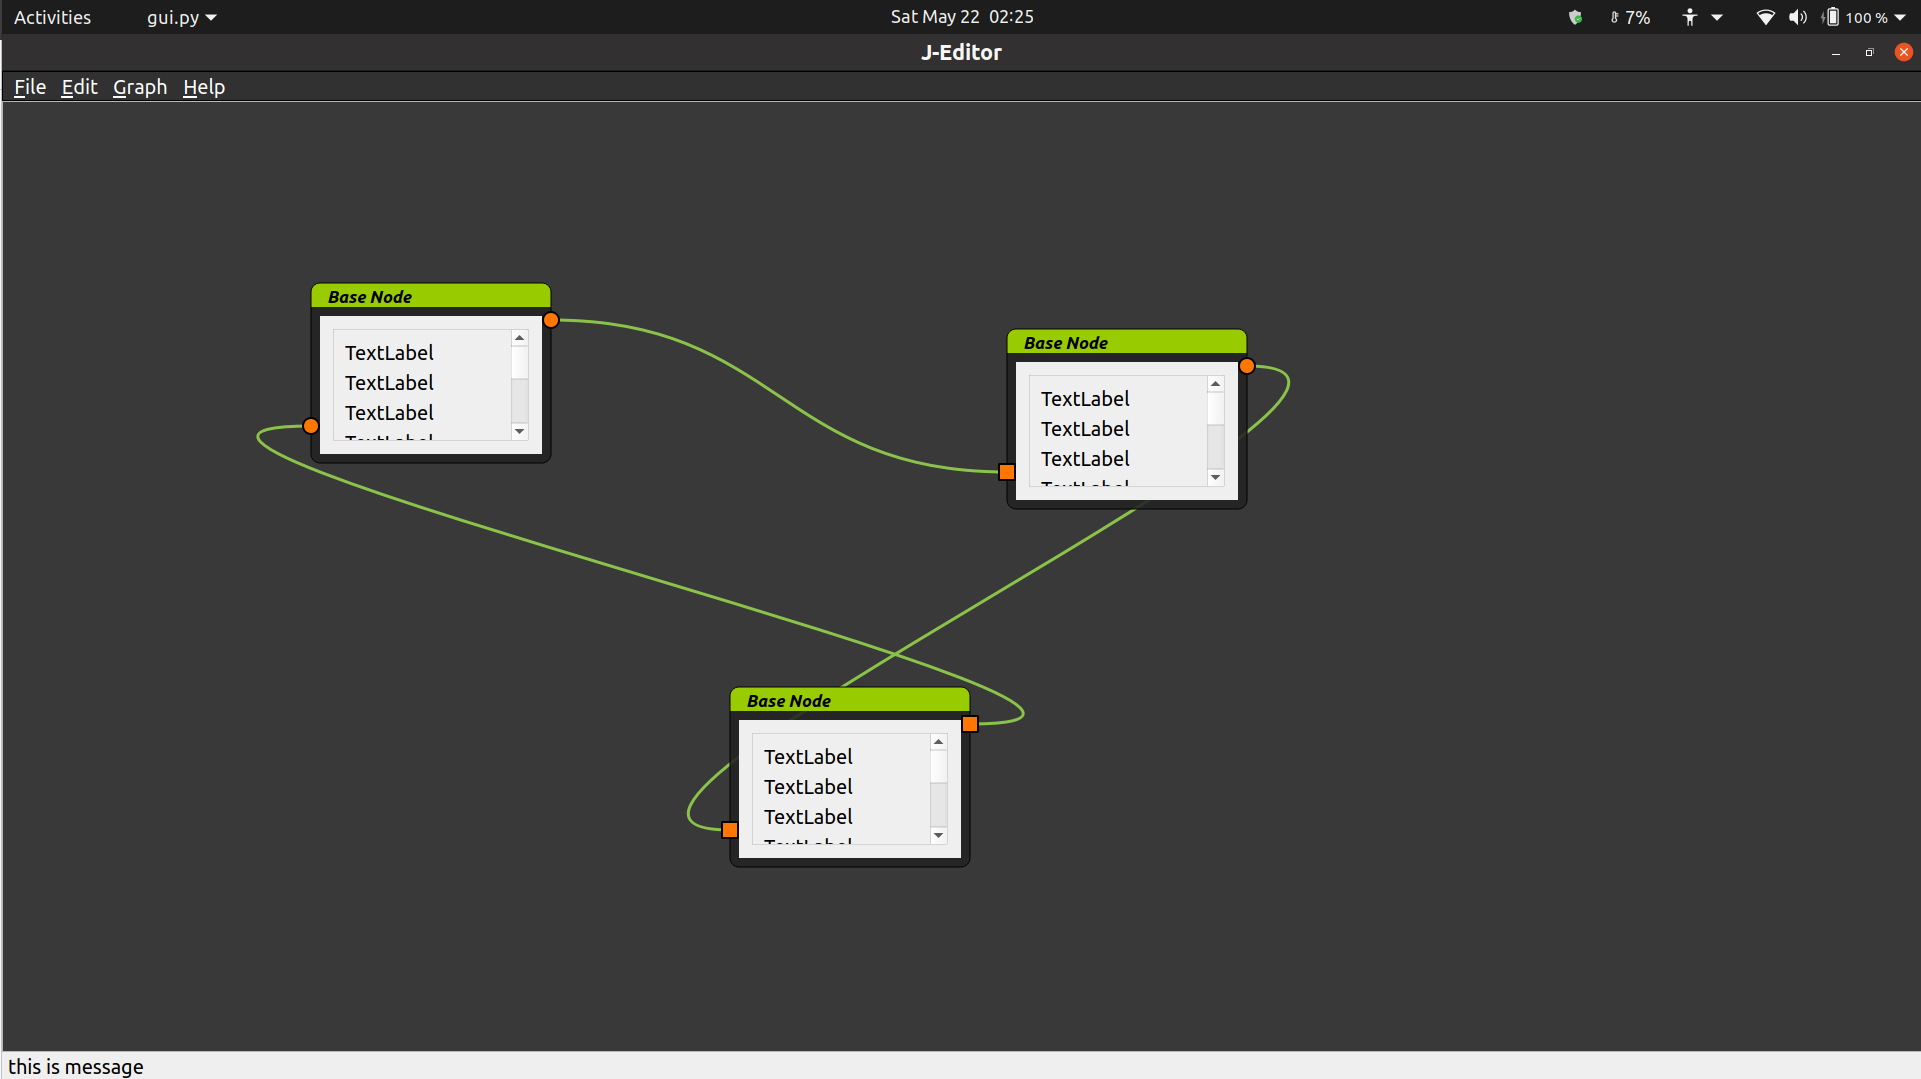
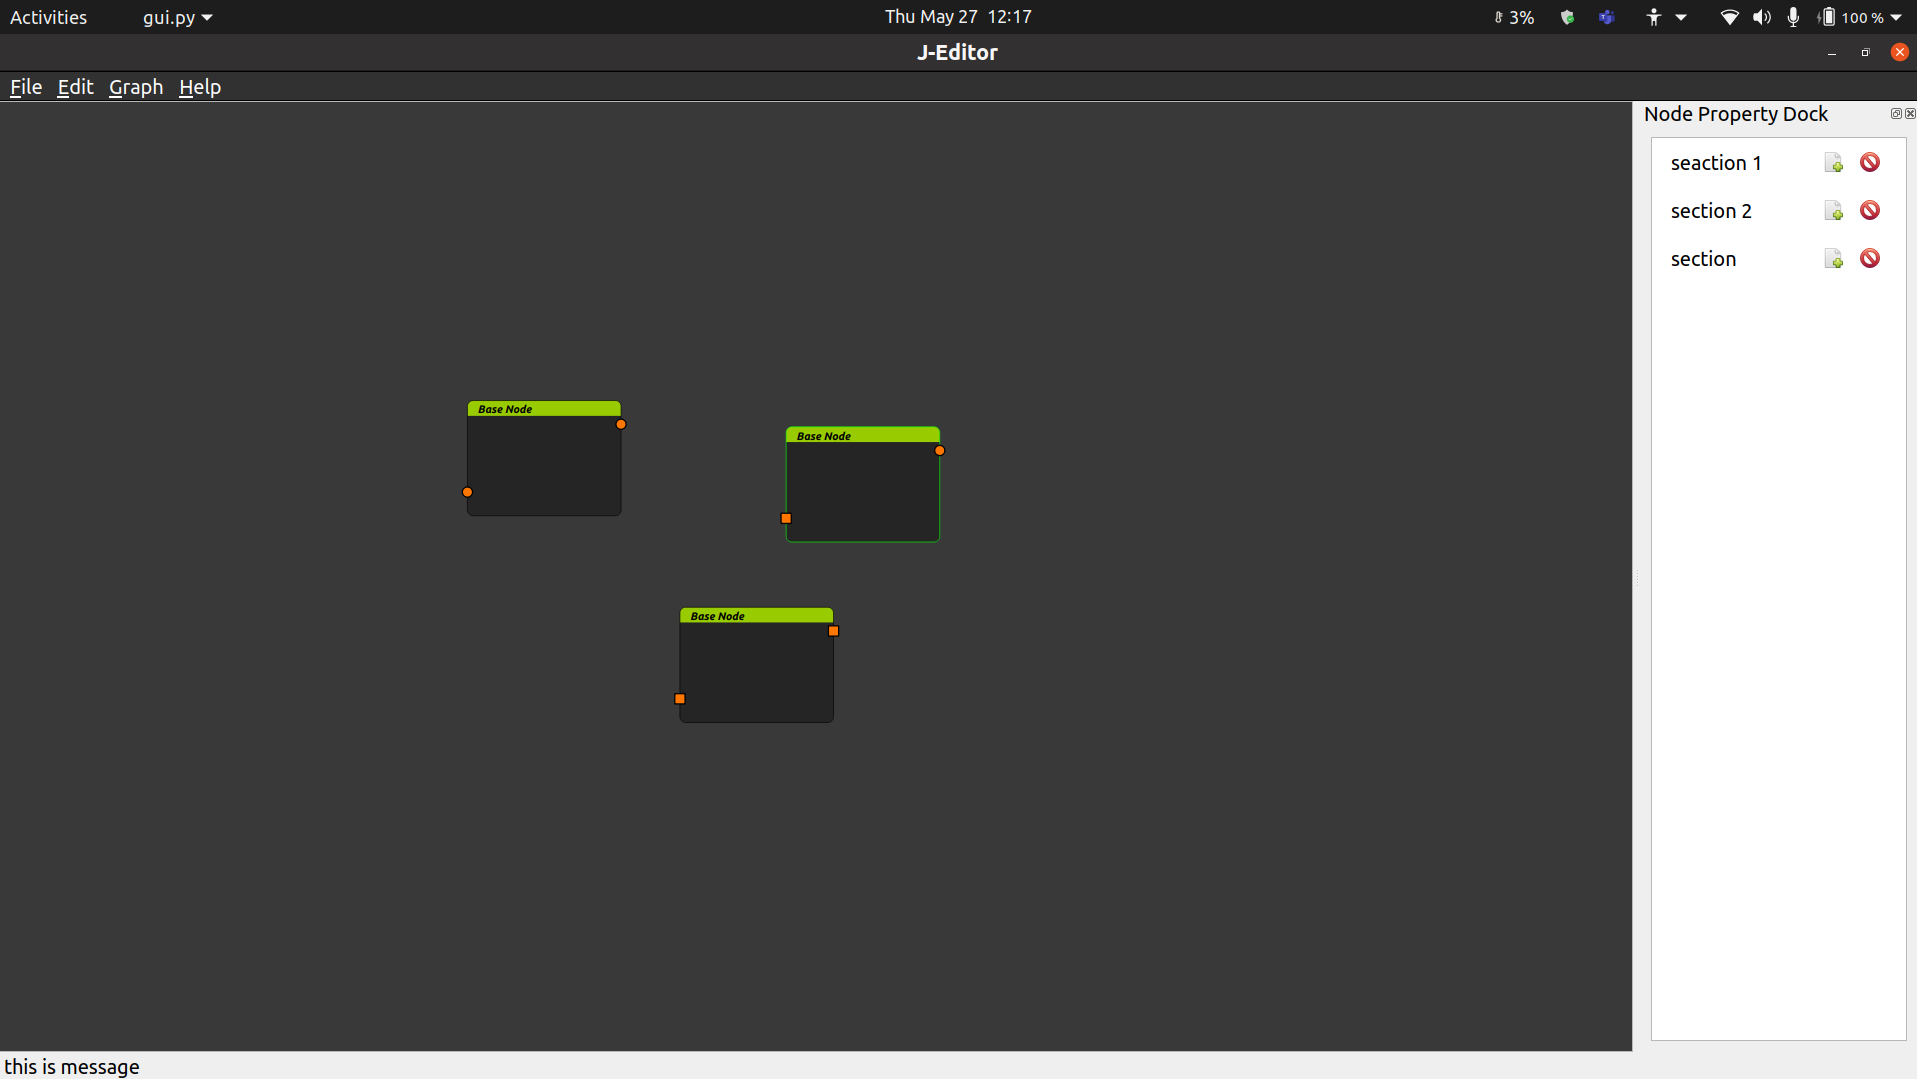
add floating dock widget

diff --git a/jeditor/widgets/dockwidget.py b/jeditor/widgets/dockwidget.py
@@ -1,0 +1,105 @@
+from typing import Optional
+from PyQt5 import QtCore, QtWidgets
+from PyQt5.QtGui import QIcon
+from PyQt5.QtWidgets import (
+    QDialog,
+    QHBoxLayout,
+    QLabel,
+    QLineEdit,
+    QTreeWidget,
+    QTreeWidgetItem,
+    QVBoxLayout,
+    QWidget,
+)
+
+
+class Section(QTreeWidgetItem):
+    def __init__(self, parent: QTreeWidget, name: str):
+        super().__init__(parent)
+        self.rootTree: QTreeWidget = parent
+        self.name = name
+        self.setExpanded(True)
+
+    def Serialize(self):
+        pass
+
+    def Deserialize(self):
+        pass
+
+
+class DelegateSectionOperations(QWidget):
+    def __init__(self, title: str, item: Section):
+        super().__init__(parent=None)
+
+        self.sectionTree = item
+
+        lable = QLabel()
+        lable.setText(title)
+
+        buttonAdd = QtWidgets.QToolButton()
+        # buttonAdd.setText("Add")
+        buttonAdd.setIcon(QIcon.fromTheme("document-new"))
+        buttonAdd.setCheckable(True)
+        buttonAdd.setChecked(False)
+        buttonAdd.setStyleSheet("QToolButton { border: none; }")
+        buttonAdd.setToolButtonStyle(QtCore.Qt.ToolButtonTextBesideIcon)
+
+        buttonRemove = QtWidgets.QToolButton()
+        buttonRemove.setIcon(QIcon.fromTheme("edit-delete"))
+        buttonRemove.setCheckable(True)
+        buttonRemove.setChecked(False)
+        buttonRemove.setStyleSheet("QToolButton { border: none; }")
+        buttonRemove.setToolButtonStyle(QtCore.Qt.ToolButtonTextBesideIcon)
+
+        self.setLayout(QHBoxLayout())
+        self.layout().setSpacing(0)
+
+        self.layout().addWidget(lable)
+        self.layout().addWidget(buttonAdd)
+        self.layout().addWidget(buttonRemove)
+
+        buttonAdd.clicked.connect(self.AddChild)
+        buttonRemove.clicked.connect(self.RemoveChild)
+
+    def AddChild(self):
+        item = QTreeWidgetItem()
+        item.setFlags(
+            QtCore.Qt.ItemIsEnabled  # type:ignore
+            | QtCore.Qt.ItemIsEditable  # type:ignore
+            | QtCore.Qt.ItemIsSelectable  # type:ignore
+        )
+        self.sectionTree.addChild(item)
+        self.sectionTree.rootTree.setItemWidget(item, 0, QLineEdit("a"))
+
+    def RemoveChild(self):
+        for item in self.sectionTree.rootTree.selectedItems():
+            self.sectionTree.removeChild(item)
+
+
+class PropertiesTree(QTreeWidget):
+    def __init__(self, parent: Optional[QWidget] = None) -> None:
+        super().__init__(parent=parent)
+        self.setHeaderHidden(True)
+
+    def AddPropertySection(self, sectionName="section") -> Section:
+        section = Section(self, sectionName)
+        # section.setText(0, sectionName)
+        self.setItemWidget(section, 0, DelegateSectionOperations(sectionName, section))
+        return section
+
+
+class ExDockWidget(QWidget):
+    def __init__(self, parent: Optional[Optional[QWidget]] = None) -> None:
+        super().__init__(parent=parent)
+
+        self.setWindowFlag(QtCore.Qt.FramelessWindowHint)
+        self.setContentsMargins(0, 0, 0, 0)
+        self.setLayout(QVBoxLayout())
+        self.properties = PropertiesTree()
+        self.properties.setIndentation(8)
+        # self.layout().addWidget(Xpath())
+        self.layout().addWidget(self.properties)
+
+        s1 = self.properties.AddPropertySection("seaction 1")
+        s2 = self.properties.AddPropertySection("section 2")
+        s3 = self.properties.AddPropertySection()

diff --git a/jeditor/editorwindow.py b/jeditor/editorwindow.py
@@ -1,3 +1,4 @@
+from jeditor.widgets.dockwidget import ExDockWidget
 from jeditor.popup.splashscreen import StartUp
 from jeditor.editormenu import JMenuBar
 from jeditor.constants import JCONSTANTS
@@ -48,8 +49,10 @@ class JEditorWindow(QMainWindow):
 
         self.statusBar().showMessage("this is message")
 
-        self.dockable = QDockWidget("Dockable", self)
+        self.dockable = QDockWidget("Node Property Dock", self)
         self.dockable.setFloating(False)
+        self.dockable.setWidget(ExDockWidget())
+        self.dockable.setContentsMargins(0, 0, 0, 0)
         self.addDockWidget(QtCore.Qt.RightDockWidgetArea, self.dockable)
 
     def Center(self):

diff --git a/jeditor/operations/nodefactory.py b/jeditor/operations/nodefactory.py
@@ -1,6 +1,5 @@
 from typing import Optional
 from jeditor.constants import JCONSTANTS
-from jeditor.core.contentwidget import JNodeContent
 from jeditor.core.graphicnode import JGraphicNode
 import uuid
 
@@ -24,7 +23,7 @@ class JNodeFactory:
     ):
         if nodeId is None:
             nodeId = uuid.uuid4().hex
-        node = JGraphicNode(nodeContent=JNodeContent(), nodeId=nodeId)
+        node = JGraphicNode(nodeContent=None, nodeId=nodeId)
         for _ in range(inputs):
             socketId = uuid.uuid4().hex
             node.socketManager.AddSocket(

diff --git a/jeditor/core/graphicnode.py b/jeditor/core/graphicnode.py
@@ -1,7 +1,8 @@
+from jeditor.widgets.qac.contentwidget import JNodeContent
 import logging
 from pprint import pprint
 from .socketmanager import JNodeSocketManager
-from .contentwidget import JNodeContent
+
 from jeditor.constants import JCONSTANTS
 from typing import Dict, List, Optional, OrderedDict, Tuple
 from PyQt5 import QtGui, QtCore

diff --git a/README.md b/README.md
@@ -8,7 +8,7 @@
 </p>
 
 <p align="center">
-    <img width="800" height="600" src="resources/demo.png">
+    <img width="1280" height="600" src="resources/demo.png">
 </p>
 
 
